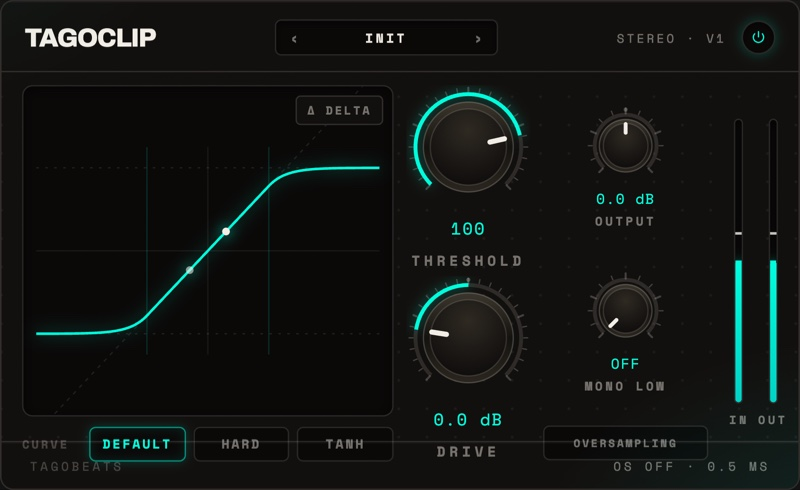
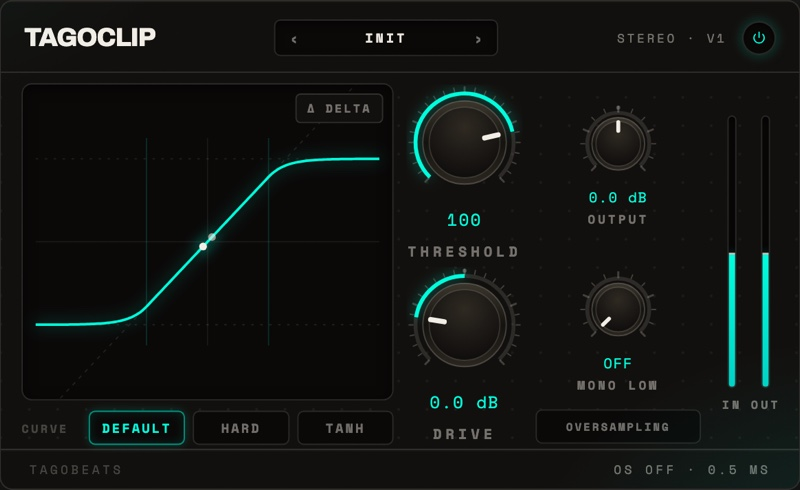
Fix TagoClip footer overlap in demo and refresh mail product image
Same root cause as the plugin UI: main deck was ~17px too tall for the
380px window, so TAGOBEATS overlapped the curve chips. Knobs 96 -> 90,
tighter footer/main padding. Product image re-rendered from the fixed
demo, cache buster bumped to v=3.

diff --git a/demos/tagoclip.html b/demos/tagoclip.html
@@ -154,7 +154,7 @@
     gap: 10px;
     align-items: center;
     justify-items: center;
-    padding: 10px 14px 3px 16px;
+    padding: 8px 14px 3px 16px;
     position: relative; z-index: 1;
     background-image: radial-gradient(rgba(236, 231, 222, 0.05) 1px, transparent 1.2px);
     background-size: 22px 22px;
@@ -246,7 +246,7 @@
     font-size: 13px;
     letter-spacing: 0.08em;
     color: var(--accent);
-    min-height: 18px;
+    min-height: 16px;
   }
   .knob-unit:hover .knob-label { color: var(--text); }
 
@@ -330,7 +330,7 @@
   /* ---------- Footer ---------- */
   footer {
     display: flex; align-items: center; justify-content: space-between;
-    padding: 11px 22px;
+    padding: 8px 22px;
     border-top: 1px solid var(--hairline);
     box-shadow: inset 0 1px 0 rgba(255, 255, 255, 0.03);
     font-family: "Space Mono", monospace;
@@ -438,7 +438,7 @@ class Knob {
   constructor(el, opts) {
     Object.assign(this, {
       min: 0, max: 1, def: 0, step: 0,
-      bipolar: false, size: 96, unit: "",
+      bipolar: false, size: 90, unit: "",
       label: null,
       onchange: null,
       fmt: v => v.toFixed(2) + " " + this.unit,
@@ -672,13 +672,13 @@ const fmtDb = v => (v > 0 ? "+" : v < 0 ? "−" : "") + Math.abs(v).toFixed(1) +
 
 const knobs = {
   drive: new Knob(document.getElementById("drive"), {
-    min: -6, max: 24, def: 0, size: 96, label: "drive", bipolar: true,
+    min: -6, max: 24, def: 0, size: 90, label: "drive", bipolar: true,
     fmt: fmtDb,
     onchange: v => { state.driveDb = v; },
   }),
   /* Fruity scale: integer 0..127, internally t = v/128 like the original */
   threshold: new Knob(document.getElementById("threshold"), {
-    min: 1, max: 127, def: 100, step: 1, size: 96, label: "threshold",
+    min: 1, max: 127, def: 100, step: 1, size: 90, label: "threshold",
     fmt: v => Math.round(v).toString(),
     onchange: v => { state.threshold = Math.round(v) / 128; drawScope(); },
   }),

diff --git a/api/lead.js b/api/lead.js
@@ -12,7 +12,7 @@ const PRODUCTS = {
   tagoclip: {
     name: 'TagoClip',
     metaLine: 'V1.0.0 &middot; MACOS AU/VST3 &middot; WINDOWS VST3 &middot; FREE',
-    image: 'https://tagobeats.com/uploads_opt/TagoClip_800.jpg?v=2',
+    image: 'https://tagobeats.com/uploads_opt/TagoClip_800.jpg?v=3',
     mac: 'https://github.com/TagoBeats/TagoClip/releases/download/v1.0.0/TagoClip-1.0.0.pkg',
     win: 'https://github.com/TagoBeats/TagoClip/releases/download/v1.0.0/TagoClip-v1.0.0-Windows-VST3.zip',
   },